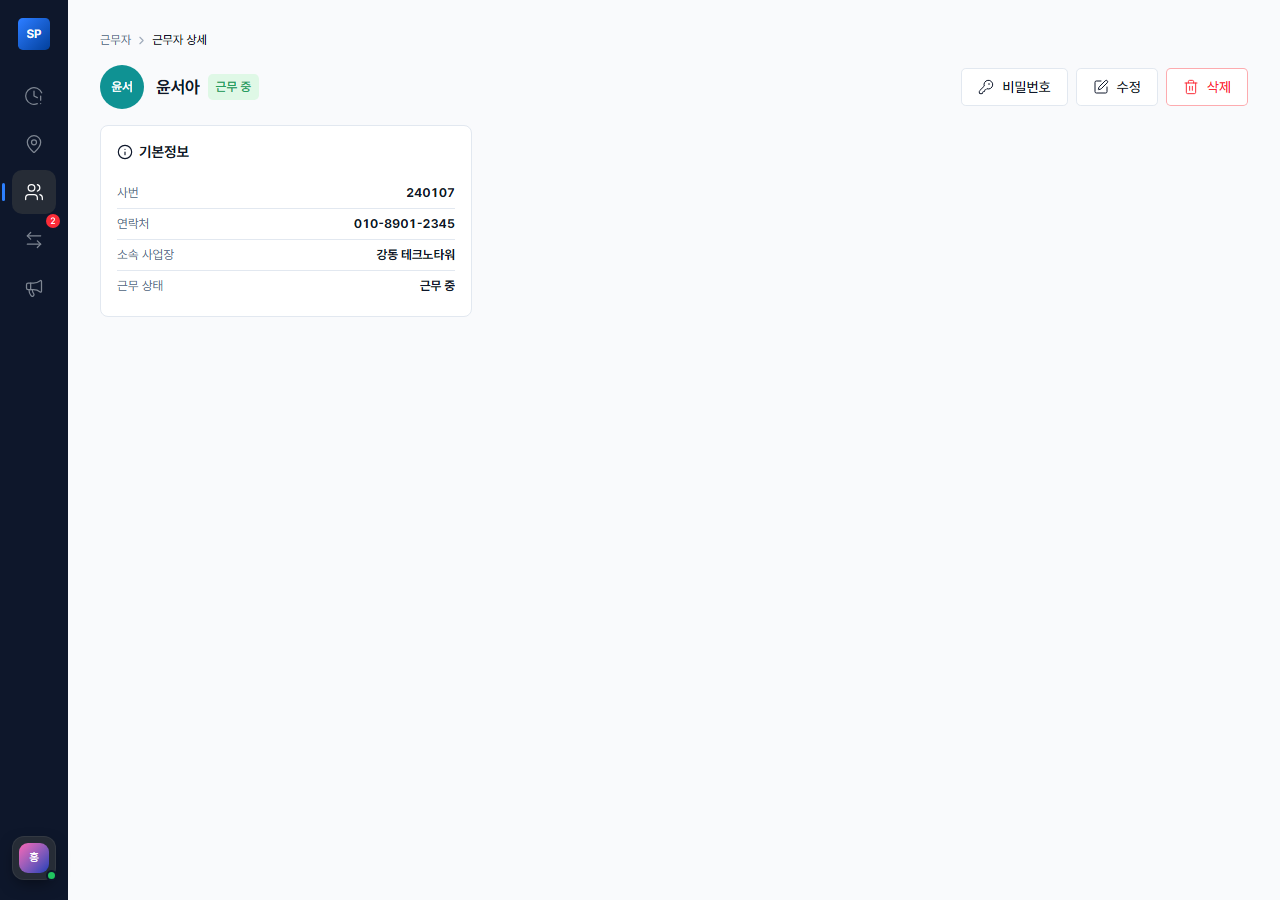
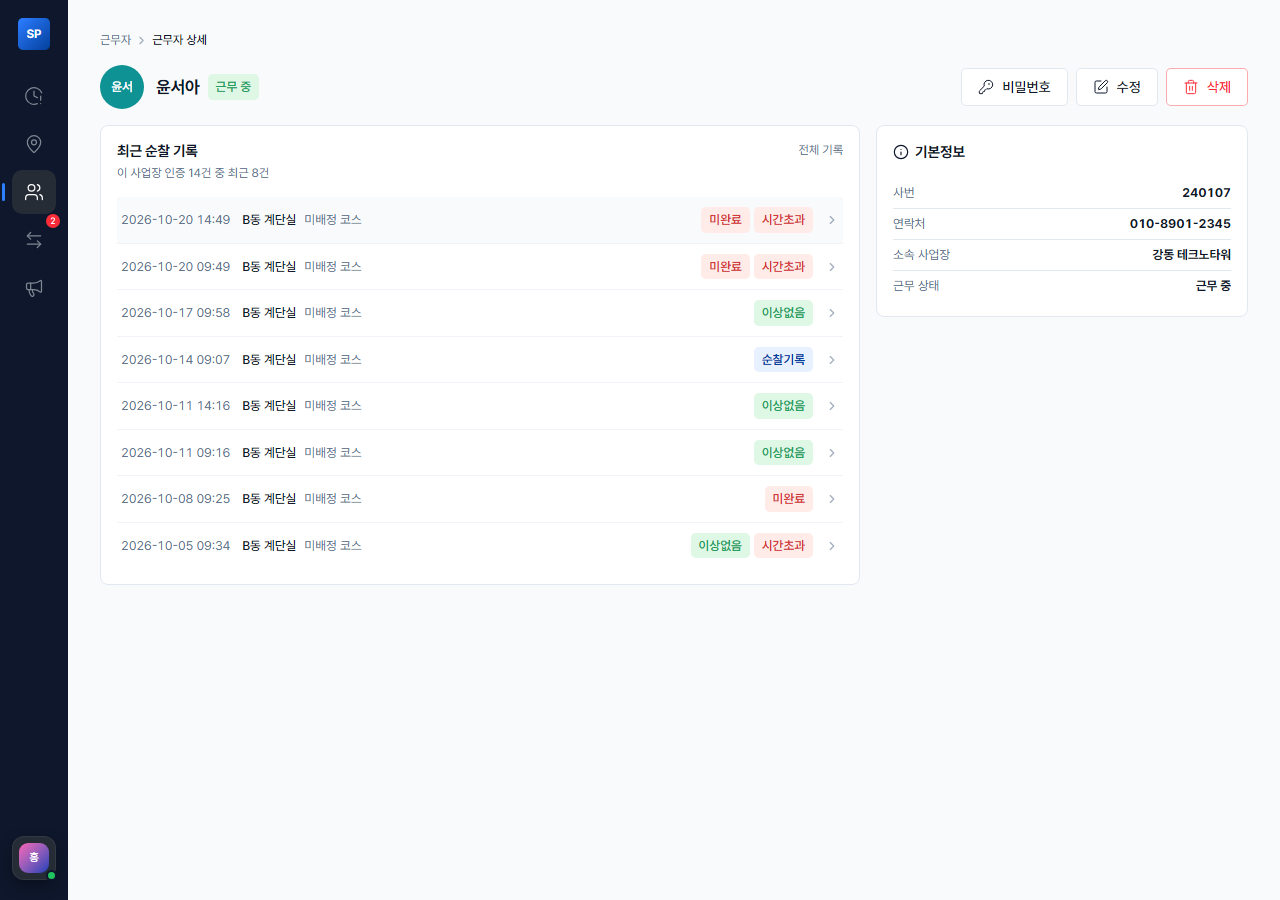
feat : 038 후속 — 근무자 상세에 최근 순찰 기록 카드 + B-41 ① 해소 확인
## 최근 순찰 기록 (T626, 사용자 요청)
- "근무 이력" API(배치·출퇴근)는 없다 — 실서버 swagger 44종 재대조, 신규 0
- 순찰 수행 이력은 기존 `GetPointHistory` 에 `userSeq` 로 — 실측: 그 사람 행만 · 최신순
- 🔴 선택 사업장 기준(상세 `siteSeq` 는 소속지라 쓰지 않는다). 최근 8건 + 전체 건수 ·
  행 → 지점 인증 상세 · "전체 기록" → `/patrol/points?user=이름`
- 상세를 좌 2/3 기록 / 우 1/3 기본정보로(지점 상세 배치, 좁은 폭은 기본정보 먼저)
- `PointHistoryParams.userSeq` · MSW `userSeq` 필터 · 테스트 4건 · `users--상세` baseline

## B-41
- ① 해소(재실측) — 현장관리자 `UserList`·`UserDetail` 200, 응답 동일 → 코드 변경 없음
- ② 상세 권한·등록일은 대기

vitest 1158 passed (104 files)

spec: specs/phase4/038-workers/spec.md

diff --git a/src/features/workers/components/detail/UserPatrolCard.tsx b/src/features/workers/components/detail/UserPatrolCard.tsx
@@ -1,0 +1,127 @@
+import { useMemo } from 'react'
+import { Link } from 'react-router-dom'
+import { ActivityIcon, ChevronRightIcon, TriangleAlertIcon } from 'lucide-react'
+
+import AppBadge from '@/components/app/AppBadge'
+import AppButton from '@/components/app/AppButton'
+import AppEmpty from '@/components/app/AppEmpty'
+import { usePointHistoryList } from '@/features/course-history/hooks/usePointHistoryList'
+import { overtimeBadge, pointCheckBadge } from '@/features/course-history/lib/historyBadge'
+import { paths } from '@/router/paths'
+
+/**
+ * 근무자의 **최근 순찰 기록** (`spec 038` 후속, 사용자 요청 2026-10-21).
+ *
+ * 🔴 **새 API 가 아니다** — 지점 순찰이력(037)이 쓰는 `GetPointHistory` 에 **`userSeq`** 를 걸었다
+ * (실측 2026-10-21: 그 사람 행만, 최신순). 배치 이력·출퇴근 기록은 API 가 없어 이 카드가 근무자
+ * 상세의 유일한 "이력" 이다.
+ *
+ * 🔴 **선택한 사업장의 기록**이다(`siteSeq` 필수) — 배치 온 사람이면 **이 사업장에서 한 순찰**만
+ * 보인다. 소속지 기록까지 합치려면 사업장을 바꿔 봐야 한다(서버가 사업장 단위로만 준다).
+ *
+ * 🔴 **최근 N건만 보인다** — 상세는 요약이 목적이다. 전부는 "전체 기록" 으로 순찰이력 목록에 보낸다.
+ * ⚠ 그 목록은 순찰자를 **이름 부분 검색**으로만 거른다(037 — 목록에 `userSeq` 필터 UI 가 없다).
+ * 동명이인이 있으면 함께 나온다.
+ */
+
+/** 보여줄 최근 기록 수 */
+const PREVIEW_COUNT = 8
+
+/** `'2026-09-18T15:49:24'` → `'2026-09-18 15:49'` — 여러 날에 걸친 목록이라 날짜를 자르지 않는다 */
+const formatCheckDt = (value: string): string => value.replace('T', ' ').slice(0, 16)
+
+interface UserPatrolCardProps {
+  userSeq: number
+  userName: string
+  siteSeq: number | null
+}
+
+const UserPatrolCard = ({ userSeq, userName, siteSeq }: UserPatrolCardProps) => {
+  const params = useMemo(
+    () =>
+      siteSeq === null ? null : { siteSeq, userSeq, pageNumber: 1, pageSize: PREVIEW_COUNT },
+    [siteSeq, userSeq]
+  )
+  const history = usePointHistoryList(params)
+  const rows = history.data?.items ?? []
+
+  return (
+    <section className="flex flex-col gap-4 rounded-lg border border-border bg-card p-4">
+      <div className="flex items-start justify-between gap-4">
+        <div className="flex flex-col gap-1">
+          <h3 className="text-panel-title font-bold text-foreground">최근 순찰 기록</h3>
+          {/* 🔴 전체 건수를 적는다 — "8건" 만 보이면 8건이 전부인지 잘린 것인지 알 수 없다 */}
+          {history.data && history.data.totalCount > 0 && (
+            <p className="text-caption text-muted-foreground">
+              이 사업장 인증 {history.data.totalCount}건 중 최근 {rows.length}건
+            </p>
+          )}
+        </div>
+        <Link
+          to={`${paths.service.patrolPoints}?user=${encodeURIComponent(userName)}`}
+          className="shrink-0 text-caption text-muted-foreground hover:text-foreground"
+        >
+          전체 기록
+        </Link>
+      </div>
+
+      {history.isPending ? (
+        <div className="h-[160px] animate-pulse rounded-sm bg-muted" />
+      ) : history.isError ? (
+        /* 🔴 조회 실패를 "기록 없음" 으로 보여주지 않는다 — 이 카드만 실패할 수 있다(037 승계) */
+        <div>
+          <AppEmpty
+            icon={TriangleAlertIcon}
+            title="순찰 기록을 불러오지 못했습니다"
+            description={history.error?.message}
+          />
+          <div className="flex justify-center">
+            <AppButton variant="sub" onClick={() => void history.refetch()}>
+              다시 시도
+            </AppButton>
+          </div>
+        </div>
+      ) : rows.length === 0 ? (
+        /* 🔴 "순찰하지 않았다" 로 단정하지 않는다 — 이 사업장의 **인증 기록**이 없을 뿐이다 */
+        <div className="flex flex-col items-center gap-1.5 py-6 text-center">
+          <ActivityIcon size={20} strokeWidth={1.5} className="text-muted-foreground/50" />
+          <p className="text-body font-medium text-foreground">순찰 기록이 없습니다</p>
+          <p className="text-caption text-muted-foreground">
+            이 사업장에서 지점을 인증하면 여기에 기록됩니다.
+          </p>
+        </div>
+      ) : (
+        <ul className="flex flex-col">
+          {rows.map((row) => {
+            const result = pointCheckBadge(row.status, row.checkDt, row.hasMemo)
+            const overtime = overtimeBadge(row.overTimeYn)
+            return (
+              <li key={row.detailSeq} className="border-b border-border/50 last:border-0">
+                <Link
+                  to={paths.service.patrolPointDetail(row.detailSeq)}
+                  className="flex items-center gap-3 px-1 py-2.5 text-body hover:bg-muted/50"
+                >
+                  <span className="shrink-0 tabular-nums text-muted-foreground">
+                    {formatCheckDt(row.checkDt)}
+                  </span>
+                  <span className="min-w-0 flex-1 truncate">
+                    <span className="font-medium text-foreground">{row.pointName}</span>
+                    <span className="ml-2 text-muted-foreground">{row.courseName}</span>
+                  </span>
+                  {/* 결과·시간초과는 독립 축이라 2개 병기(036 결정) */}
+                  <span className="flex shrink-0 items-center gap-1">
+                    <AppBadge variant={result.variant}>{result.label}</AppBadge>
+                    {overtime && <AppBadge variant={overtime.variant}>{overtime.label}</AppBadge>}
+                  </span>
+                  <ChevronRightIcon size={14} className="shrink-0 text-muted-foreground/60" aria-hidden />
+                </Link>
+              </li>
+            )
+          })}
+        </ul>
+      )}
+    </section>
+  )
+}
+
+export default UserPatrolCard

diff --git a/src/pages/service/users/__tests__/UserDetailPage.test.tsx b/src/pages/service/users/__tests__/UserDetailPage.test.tsx
@@ -5,6 +5,7 @@ import { http, HttpResponse } from 'msw'
 import { MemoryRouter, Route, Routes } from 'react-router-dom'
 import { afterEach, beforeEach, describe, expect, it } from 'vitest'
 
+import { setSite } from '@/lib/auth/site'
 import { clearTokens, setAccessToken } from '@/lib/auth/tokens'
 import { server } from '@/mocks/server'
 import { makeAccessToken } from '@/test/jwt'
@@ -45,6 +46,7 @@ const captureDetailCalls = () => {
 beforeEach(() => {
   clearTokens()
   setAccessToken(makeAccessToken())
+  setSite(7, '강동 테크노타워')
 })
 
 afterEach(() => {
@@ -131,6 +133,63 @@ describe('UserDetailPage — 정상', () => {
     await user.click(await screen.findByRole('button', { name: '비밀번호' }))
 
     expect(await screen.findByRole('alertdialog')).toBeInTheDocument()
+  })
+})
+
+describe('UserDetailPage — 최근 순찰 기록', () => {
+  const HISTORY_PATH = '/api/v1/History/W/sign/GetPointHistory'
+
+  it('🔴 선택 사업장 + userSeq 로 조회한다 — 이름 검색이 아니다(동명이인)', async () => {
+    const calls: URL[] = []
+    server.events.on('request:start', ({ request }) => {
+      const target = new URL(request.url)
+      if (target.pathname === HISTORY_PATH) calls.push(target)
+    })
+    renderAt('101')
+
+    await screen.findByText('최근 순찰 기록')
+    await screen.findAllByRole('link', { name: /\d{4}-\d{2}-\d{2}/ })
+    const query = calls[calls.length - 1].searchParams
+    expect(query.get('siteSeq')).toBe('7')
+    expect(query.get('userSeq')).toBe('101')
+    expect(query.get('userName')).toBeNull()
+  })
+
+  it('기록 행은 지점 인증 상세로 간다 · 전체 기록은 순찰자 필터를 건 목록으로 간다', async () => {
+    renderAt('101')
+
+    const rows = await screen.findAllByRole('link', { name: /\d{4}-\d{2}-\d{2}/ })
+    expect(rows.length).toBeGreaterThan(0)
+    expect(rows.length).toBeLessThanOrEqual(8)
+    expect(rows[0].getAttribute('href')).toMatch(/^\/patrol\/points\/\d+$/)
+    expect(screen.getByRole('link', { name: '전체 기록' })).toHaveAttribute(
+      'href',
+      `/patrol/points?user=${encodeURIComponent('김민준')}`
+    )
+  })
+
+  it('🔴 기록 조회 실패는 "기록 없음" 이 아니다 — 상세 본문은 그대로 있다', async () => {
+    server.use(http.get(HISTORY_PATH, () => HttpResponse.json({ message: 'x' }, { status: 500 })))
+    renderAt('101')
+
+    expect(await screen.findByText('순찰 기록을 불러오지 못했습니다')).toBeInTheDocument()
+    expect(screen.queryByText('순찰 기록이 없습니다')).not.toBeInTheDocument()
+    expect(screen.getByText('기본정보')).toBeInTheDocument()
+  })
+
+  it('기록이 없으면 단정하지 않는 빈 상태', async () => {
+    server.use(
+      http.get(HISTORY_PATH, () =>
+        HttpResponse.json({
+          message: '',
+          code: 200,
+          data: { items: [], page: 1, pageSize: 8, totalCount: 0 },
+        })
+      )
+    )
+    renderAt('101')
+
+    expect(await screen.findByText('순찰 기록이 없습니다')).toBeInTheDocument()
   })
 })
 

diff --git a/src/pages/service/users/UserDetailPage.tsx b/src/pages/service/users/UserDetailPage.tsx
@@ -14,10 +14,12 @@ import AppButton from '@/components/app/AppButton'
 import AppDialog from '@/components/app/AppDialog'
 import AppEmpty from '@/components/app/AppEmpty'
 import UserInfoCard from '@/features/workers/components/detail/UserInfoCard'
+import UserPatrolCard from '@/features/workers/components/detail/UserPatrolCard'
 import WorkerAvatar from '@/features/workers/components/WorkerAvatar'
 import EditWorkerForm from '@/features/workers/form/EditWorkerForm'
 import { useUserDetail } from '@/features/workers/hooks/useUserDetail'
 import { workLabel } from '@/features/workers/lib/userFormat'
+import { getSiteSeq } from '@/lib/auth/site'
 import { paths } from '@/router/paths'
 
 /**
@@ -60,6 +62,8 @@ const UserDetailPage = () => {
   const userSeq = Number.isInteger(parsed) && parsed > 0 ? parsed : null
 
   const detail = useUserDetail(userSeq)
+  /* 🔴 순찰 기록은 **선택한 사업장** 기준이다 — 상세의 `siteSeq` 는 소속지라(배치 온 사람은 다르다) 쓰지 않는다 */
+  const siteSeq = getSiteSeq()
 
   /** 🔴🔴 주소 오류를 로딩보다 먼저 분기한다 — `enabled: false` 는 영원히 `isPending` 이다(037 T557) */
   if (userSeq === null) {
@@ -173,10 +177,17 @@ const UserDetailPage = () => {
         </div>
       </div>
 
-      {/* 🔴 **카드 하나라 열을 나누지 않는다** — 026 공지에서 "분리할 이유가 사라지면 열도 사라진다"
-          를 거쳤다. 폭은 다른 상세의 우측 열(1/3)과 맞춰 값이 멀리 떨어지지 않게 한다 */}
+      {/* **좌 2/3 최근 순찰 기록 / 우 1/3 기본정보** — 지점 상세(027·029)와 같은 배치(사용자 요청
+          2026-10-21). 시간이 쌓이는 것이 좌측, 그 사람을 설명하는 값이 우측이다.
+          🔴 **좁은 폭에서는 기본정보가 먼저**(`order`) — 1단이 되면 "누구인가" 가 먼저 와야 한다.
+          🔴 `items-start` — 우측 카드가 좌측 높이만큼 늘어나지 않게(036) */}
       <div className="grid grid-cols-1 items-start gap-4 xl:grid-cols-3">
-        <UserInfoCard user={user} />
+        <div className="order-2 xl:order-1 xl:col-span-2">
+          <UserPatrolCard userSeq={user.userSeq} userName={user.userName} siteSeq={siteSeq} />
+        </div>
+        <div className="order-1 xl:order-2">
+          <UserInfoCard user={user} />
+        </div>
       </div>
     </div>
   )

diff --git a/src/mocks/handlers/points.ts b/src/mocks/handlers/points.ts
@@ -491,6 +491,8 @@ export const pointHandlers = [
     // 🔴 `spec 037` T547 — 지점 순찰이력 **목록 화면**이 쓰는 필터 2종을 더했다
     const authMethod = query.get('authMethod')
     const userName = query.get('userName')?.trim() ?? ''
+    // 🔴 `spec 038` — 근무자 상세의 최근 순찰 기록이 **정확 일치**로 좁힌다(실측 2026-10-21)
+    const userSeq = query.get('userSeq')
     const pageNumber = Number(query.get('pageNumber') ?? 1)
     const pageSize = Number(query.get('pageSize') ?? 20)
 
@@ -536,6 +538,7 @@ export const pointHandlers = [
       // 🔴 **부분 일치**다 — 서버가 `userName` 을 부분 문자열로 받는다(현장 계정은 순찰자
       //    목록 API 가 403 이라 드롭다운을 만들 수 없어 텍스트 검색으로 간다)
       .filter((row) => (userName === '' ? true : row.userName.includes(userName)))
+      .filter((row) => (userSeq === null ? true : row.userSeq === Number(userSeq)))
       .filter((row) => {
         const day = row.checkDt.slice(0, 10)
         if (from && day < from) return false

diff --git a/src/features/course-history/types/history.ts b/src/features/course-history/types/history.ts
@@ -195,6 +195,11 @@ export interface PointHistoryParams {
   toDt?: string
   /** 순찰자명 부분 검색. 🔴 드롭다운이 아니라 **텍스트**다 — 현장 계정은 `UserList` 가 403 */
   userName?: string
+  /**
+   * 순찰자 **정확 일치**(`spec 038` 근무자 상세 — 최근 순찰 기록). 실측 2026-10-21: 그 사람 행만
+   * 오고 최신순이다. 이름 부분 검색(`userName`)과 달리 동명이인이 섞이지 않는다
+   */
+  userSeq?: number
   /** 코스명 부분 검색. ⚠ 037 은 쓰지 않는다(코스는 셀렉트) — 실측 파라미터라 선언만 둔다 */
   courseName?: string
   pageNumber: number

diff --git a/docs/api-spec.md b/docs/api-spec.md
@@ -1286,7 +1286,7 @@ interface NoticeAttach {
 | B-34 | ❌ **철회(2026-10-12). 요청하지 않는다.** 처음에 `GetCourseHistory` 에 `status`·`overtimeYn` 필터를 요청했는데, ① `status` 는 **이미 있었다**(`eventType`, OQ-5 해소) ② `overtimeYn` 으로 거르는 화면이 **코드에도 목업에도 결정에도 없다.** 확정된 필터는 코스이력 페이지의 **기간·코스·결과** 3종이고 결과는 `eventType` 이 덮는다. 🔴 **목업의 `지연` 뱃지를 보고 "보이면 걸러 보고 싶을 것" 이라고 추측해 올린 요청이었다**(A1 위반). 요청 사유로 쓴 "페이징과 충돌해 틀린 건수가 뜬다" 는 **그 필터를 쓰는 화면이 생길 때만** 성립한다 — 그때 다시 요청한다 |
 | B-35 | 🟡 **같은 메모를 응답마다 다른 이름으로 준다**(실측 2026-10-12). `GetCourseHistoryCheckDetails` 는 `memos` / `attaches` / `imagePath` / `fileExt`, `GetPointHistoryDetail` 은 **`memoList` / `attachList` / `attachPath`** 이고 **`fileExt` 가 없다** — `memoSeq`·`attachSeq`·URL 이 같은 **동일 데이터**다. 백엔드가 전달한 DTO(`CourseHistoryMemoDto`)는 **코스 쪽뿐**이라, 지점 쪽을 쓰려면 프론트에 어댑터가 하나 더 생긴다. B-4(필드명 불일치) 계열이지만 **중첩 2단에 걸쳐** 어긋나 비용이 더 크다. **요청**: 한쪽 이름으로 통일 |
 | B-40 | 🔴🔴 **첨부 이미지 URL 로 파일을 받을 수 없다 — 404 다**(실측 2026-10-16). 응답은 절대 URL 을 정상적으로 주는데(OQ-13 대로 `http://{호스트}/UploadedFiles/...`), **실제로 요청하면 `HTTP 404` + 0바이트**다. 🔴 **순찰 첨부 2건**(`patrols/202610/`, `attachSeq 45`·`46`)과 **공지 첨부 1건**(`notices/202607/`, `attachSeq 17`) **전부** 404 이고, **토큰을 붙여도·빼도 같다**(인증 문제가 아니다). 디렉토리 자체도 404. 즉 **지금은 사진을 화면에 띄울 수 없다** — 코스이력 상세의 순찰기록 썸네일·지점 인증 상세의 현장 사진·공지 첨부가 **전부 빈 칸이 된다**. ⚠ 응답에 경로가 있으니 **프론트에서는 "데이터가 있다" 로 보인다** — 깨진 이미지만 뜨고 원인을 화면에서 알 수 없다. **요청**: 파일 미존재 / 정적 서빙 미설정(`UseStaticFiles`) / 경로 매핑 불일치 중 **어느 것인지 확인**. ⚠ 프론트는 그와 별개로 **onError 폴백**을 넣는다(OQ-13 의 mixed content·프록시 문제와 겹치는 자리) | 🔴 |
-| B-41 | 🔴🔴 **현장관리자가 근무자 API 를 쓸 수 없다 — 403 이다**(재실측 2026-10-21, `spec 038`). `UserList`·`UserDetail` 이 현장관리자(`333333`) 토큰에 **403 + 빈 body**, 본사 토큰에는 200 이다. 🔴 **현장 사이트 근무자 화면(`/users`)의 주 사용자가 현장관리자**라 이대로면 그 화면은 **현장관리자에게 항상 조회 실패**다(본사 계정으로만 보인다). ⚠ 변경계 3종(`AddUser`·`UpdateUser`·`RemoveUser`)은 **미실측**이나 같은 권한일 가능성이 높다 — 명세서는 "근무자 추가는 현장관리자만" 이다(`screens.md` §1-4). **요청**: ① 현장관리자에게 **자기 사업장** 근무자 조회·추가·수정·삭제 권한 개방 ② 함께 — **`UserDetail` 에 `codeSeq`·`codeName`·`createDt` 추가**(목록에는 있는데 상세에 없어 상세에서 권한·등록일을 보여줄 수 없다, OQ-8). 프론트는 **서버 타입·MSW 위에서 이미 만들어 두었다** — 열리면 코드 변경 없이 동작한다 | 🔴 |
+| B-41 | ◩ **① 해소(2026-10-21 당일 재실측 — 현장관리자 `UserList`·`UserDetail` 200, 응답 형태 동일) · ② 대기(상세 `codeSeq`·`codeName`·`createDt`)**. (원문) 🔴🔴 **현장관리자가 근무자 API 를 쓸 수 없다 — 403 이다**(재실측 2026-10-21, `spec 038`). `UserList`·`UserDetail` 이 현장관리자(`333333`) 토큰에 **403 + 빈 body**, 본사 토큰에는 200 이다. 🔴 **현장 사이트 근무자 화면(`/users`)의 주 사용자가 현장관리자**라 이대로면 그 화면은 **현장관리자에게 항상 조회 실패**다(본사 계정으로만 보인다). ⚠ 변경계 3종(`AddUser`·`UpdateUser`·`RemoveUser`)은 **미실측**이나 같은 권한일 가능성이 높다 — 명세서는 "근무자 추가는 현장관리자만" 이다(`screens.md` §1-4). **요청**: ① 현장관리자에게 **자기 사업장** 근무자 조회·추가·수정·삭제 권한 개방 ② 함께 — **`UserDetail` 에 `codeSeq`·`codeName`·`createDt` 추가**(목록에는 있는데 상세에 없어 상세에서 권한·등록일을 보여줄 수 없다, OQ-8). 프론트는 **서버 타입·MSW 위에서 이미 만들어 두었다** — 열리면 코드 변경 없이 동작한다 | 🔴 |
 
 ### 6-1-A. 🔴 백엔드 전달용 — 우선순위 (2026-10-10 기준)
 

diff --git a/docs/screens.md b/docs/screens.md
@@ -114,7 +114,7 @@
 
 | 화면                           | 라우트(예상) | Risk | 진행도 | 한 줄 설명                                                                                                                                              |
 | ------------------------------ | ------------ | :--: | :----: | ------------------------------------------------------------------------------------------------------------------------------------------------------- |
-| 근무자 목록 + 상세 페이지 | `/users`, `/users/:userSeq` |  B   |   ✓    | 🔴 **`spec 038` 에서 마스터-디테일 → 목록 + 상세 페이지**. 목록: 이름·사번·권한·근무 상태·원소속·등록일 + 검색(이름·사번)·권한·근무 상태 필터 + 서버 페이징 + 좁은 폭 카드. 상세: 머리(아바타·이름·근무 상태·비밀번호/수정/삭제) + 기본정보 카드. ⚠ **현장관리자는 API 가 403**(B-41) — 서버 타입·MSW 위에서 만들어 두었고 본사 계정으로만 실데이터가 보인다 |
+| 근무자 목록 + 상세 페이지 | `/users`, `/users/:userSeq` |  B   |   ✓    | 🔴 **`spec 038` 에서 마스터-디테일 → 목록 + 상세 페이지**. 목록: 이름·사번·권한·근무 상태·원소속·등록일 + 검색(이름·사번)·권한·근무 상태 필터 + 서버 페이징 + 좁은 폭 카드. 상세: 머리(아바타·이름·근무 상태·비밀번호/수정/삭제) + **좌 최근 순찰 기록(`GetPointHistory?userSeq`, 선택 사업장 최근 8건) / 우 기본정보**. ✅ **현장관리자 403(B-41 ①)은 2026-10-21 해소** — 코드 변경 없이 동작. ⚠ 상세의 권한·등록일(B-41 ②)은 대기 |
 | 근무자 추가 / 수정             | (모달)       |  B   |   △    | 이름·연락처·소속사업장(읽기전용)·초기비밀번호. **현장관리자만 생성 가능**. 🔴 **UI 만 — 저장은 스텁**. 변경계(`AddUser`·`UpdateUser`·`RemoveUser`, 사진 multipart)는 B-41 회신 후 **별도 spec** |
 
 **리디자인 변경 사항**

diff --git a/specs/phase4/038-workers/tasks.md b/specs/phase4/038-workers/tasks.md
@@ -92,6 +92,11 @@
 - **T619 는 T621 앞** — 실측으로 placeholder·MSW 가 바뀌면 테스트가 함께 바뀐다
 - Phase 3(US1)과 Phase 4(US2)는 T603~T606 이후 **독립 진행 가능**. Phase 6 은 모든 US 뒤
 
+### 종료 후 후속 (2026-10-21)
+
+- [x] T626 [US2] **최근 순찰 기록 카드** in src/features/workers/components/detail/UserPatrolCard.tsx · src/pages/service/users/UserDetailPage.tsx — 사용자 요청. "근무 이력" API(배치·출퇴근)는 **없고**(실서버 swagger 44종 재대조, 신규 0), 순찰 수행 이력은 **기존 `GetPointHistory` 에 `userSeq`** 로 만들 수 있었다(실측: 그 사람 행만 · 최신순 · 없으면 0건). 🔴 **선택 사업장** 기준(상세 `siteSeq` 는 소속지라 쓰지 않는다). 최근 8건 + 전체 건수 + "전체 기록"(→ `/patrol/points?user=이름`, ⚠ 목록은 이름 부분 검색이라 동명이인이 섞인다). 상세가 **좌 2/3 기록 / 우 1/3 기본정보**(지점 상세 배치, 좁은 폭은 기본정보 먼저). `PointHistoryParams.userSeq` · MSW `userSeq` 필터 추가. 테스트 4건 · `users--상세` baseline 교체
+- ✅ **B-41 ① 해소 확인**(재실측 2026-10-21) — 현장관리자 `UserList`·`UserDetail` **200**, 응답 형태 동일 → **코드 변경 없이 동작**. 현장관리자 사업장 선택지에 루트 6 이 있어 실데이터 6명이 보인다. ⚠ **② 상세 `codeName`·`createDt` 는 미반영**(백엔드 요청 중)
+
 ---
 
 ## DoD 대조표 (T625)
